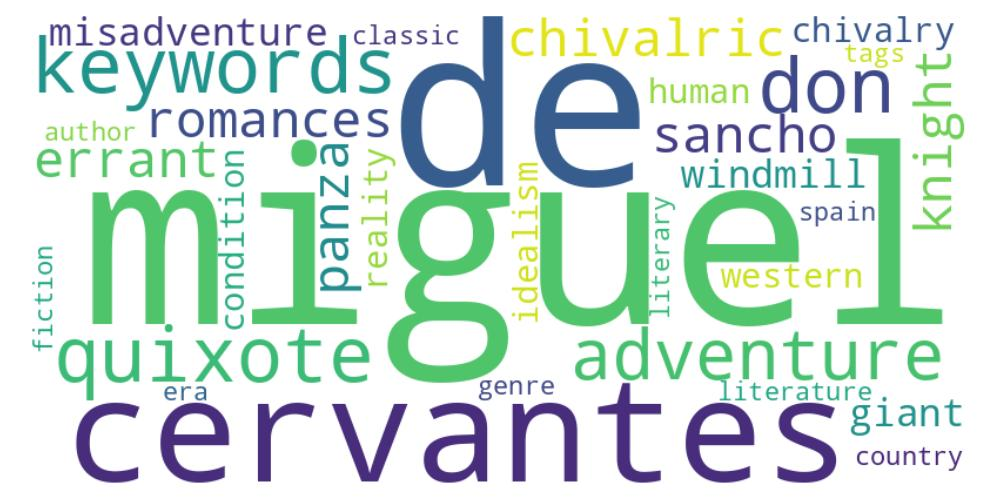
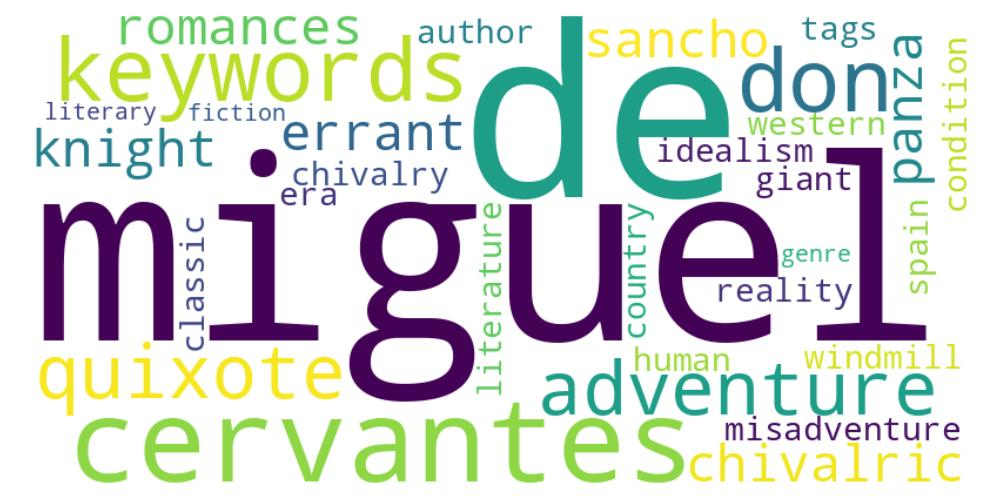
chore: commit save point

diff --git a/main.py b/main.py
@@ -35,14 +35,11 @@ def generate_tag_cloud(keywords: str, output_path: str):
     keywords_list = keywords.split("keywords:")[-1].strip().split("\n- ")
     keywords_list = [kw.strip() for kw in keywords_list if kw.strip()]  # Filtramos palabras vacías y espacios
 
-    # Normalizamos las stop words (minúsculas y lematización)
-    normalized_stopwords = {lemmatizer.lemmatize(word.lower()) for word in CUSTOM_STOPWORDS}
-
-    # Filtramos stop words y lematizamos las palabras clave
+    # Filtramos stop words y lematizamos
     filtered_keywords = [
         lemmatizer.lemmatize(word.lower())  # Convertimos a minúsculas y lematizamos
         for word in keywords_list
-        if lemmatizer.lemmatize(word.lower()) not in normalized_stopwords  # Comparamos con stop words normalizadas
+        if lemmatizer.lemmatize(word.lower()) not in CUSTOM_STOPWORDS  # Comparamos con stop words
     ]
 
     # Verificamos si hay palabras clave después del filtrado
